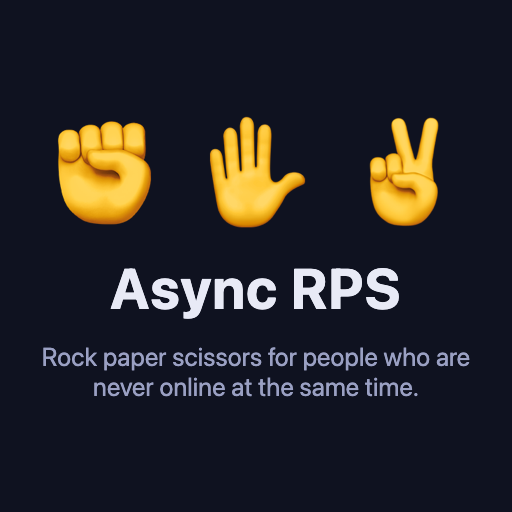
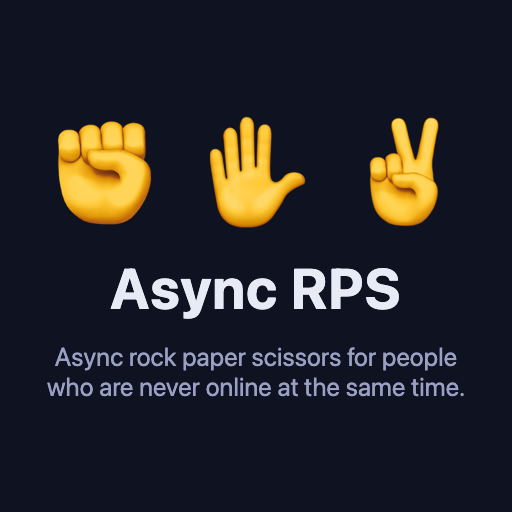
feat(tagline): update tagline to emphasize async nature

Changed region(s): [[0.0625, 0.6562, 0.9375, 0.7812]]

diff --git a/public/index.html b/public/index.html
@@ -4,11 +4,11 @@
 <meta charset="utf-8">
 <meta name="viewport" content="width=device-width, initial-scale=1">
 <title>Async Rock Paper Scissors</title>
-<meta name="description" content="Rock paper scissors for people who are never online at the same time.">
+<meta name="description" content="Async rock paper scissors for people who are never online at the same time.">
 <meta property="og:type" content="website">
 <meta property="og:site_name" content="Async RPS">
 <meta property="og:title" content="Async Rock Paper Scissors">
-<meta property="og:description" content="Rock paper scissors for people who are never online at the same time.">
+<meta property="og:description" content="Async rock paper scissors for people who are never online at the same time.">
 <meta property="og:url" content="https://async-rps.codermeister.workers.dev/">
 <meta property="og:image" content="https://async-rps.codermeister.workers.dev/og.png">
 <meta name="twitter:card" content="summary">
@@ -53,7 +53,7 @@
 <body>
 <main>
   <h1><a href="/">✊ ✋ ✌ Async RPS</a></h1>
-  <p class="sub">Rock paper scissors for people who are never online at the same time.</p>
+  <p class="sub">Async rock paper scissors for people who are never online at the same time.</p>
   <div id="app"></div>
 </main>
 <div id="toast"></div>

diff --git a/src/index.ts b/src/index.ts
@@ -1,7 +1,7 @@
 import { createClient } from '@libsql/client/web';
 import { createApp, gameSummary } from './app.ts';
 
-const TAGLINE = 'Rock paper scissors for people who are never online at the same time.';
+const TAGLINE = 'Async rock paper scissors for people who are never online at the same time.';
 
 function setContent(value: string) {
   return { element: (el: Element) => { el.setAttribute('content', value); } };
